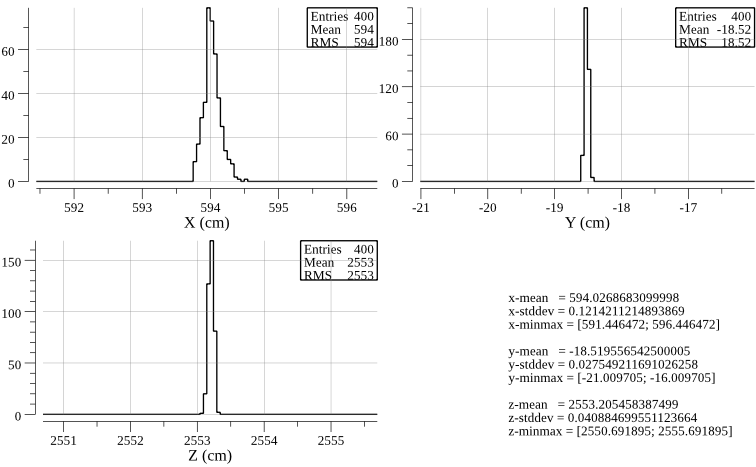
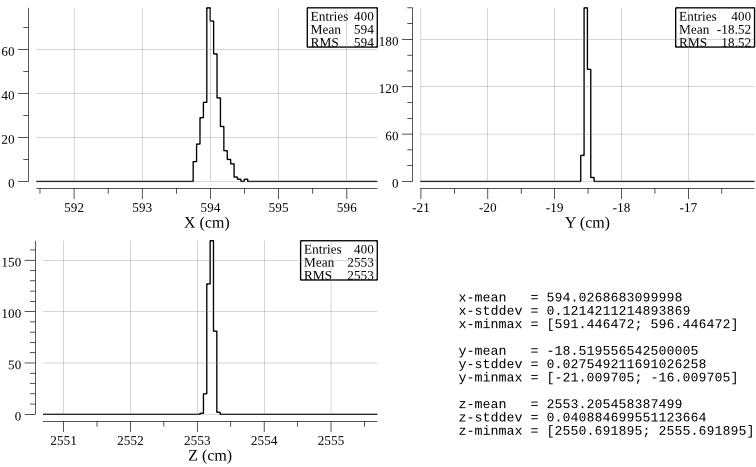
all: use courier font for histo stats

Changed region(s): [[0.6085, 0.6296, 1.0, 0.9593]]

diff --git a/main.go b/main.go
@@ -489,6 +489,13 @@ z-minmax = [%v; %v]
 	if err != nil {
 		log.Fatal(err)
 	}
+	for i := range labels.TextStyle {
+		sty := &labels.TextStyle[i]
+		err := sty.Font.SetName("Courier")
+		if err != nil {
+			log.Fatal(err)
+		}
+	}
 	tp.Plot(1, 1).HideAxes()
 	tp.Plot(1, 1).X.Min = -0.5
 	tp.Plot(1, 1).X.Max = 1
